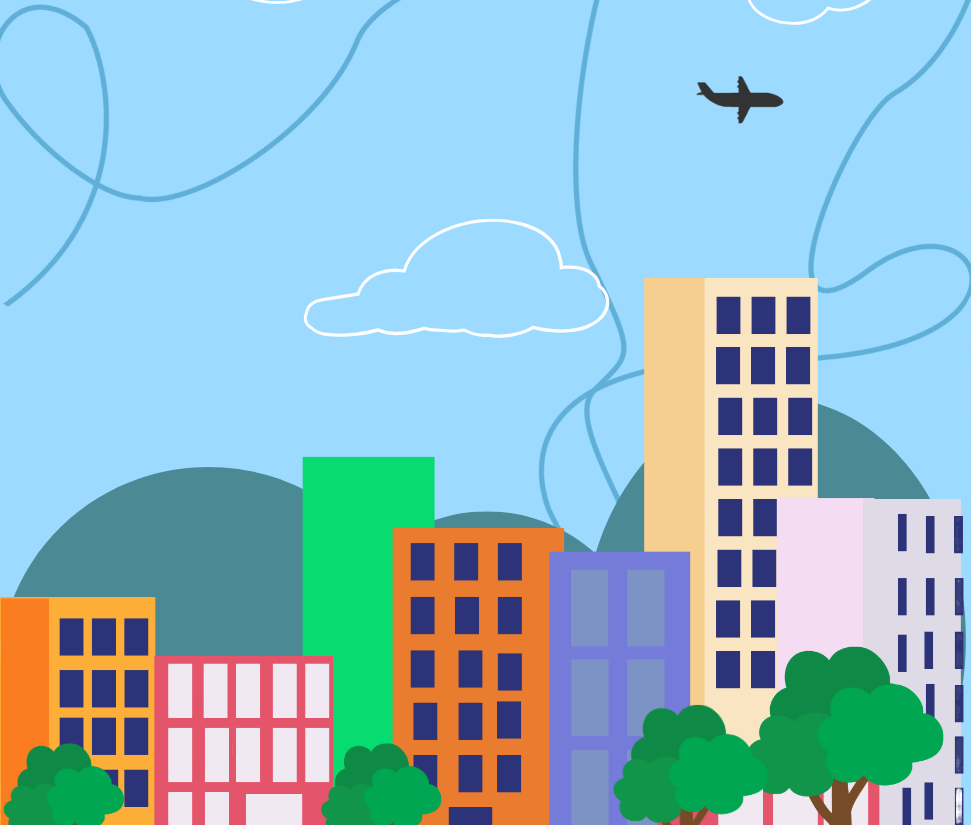
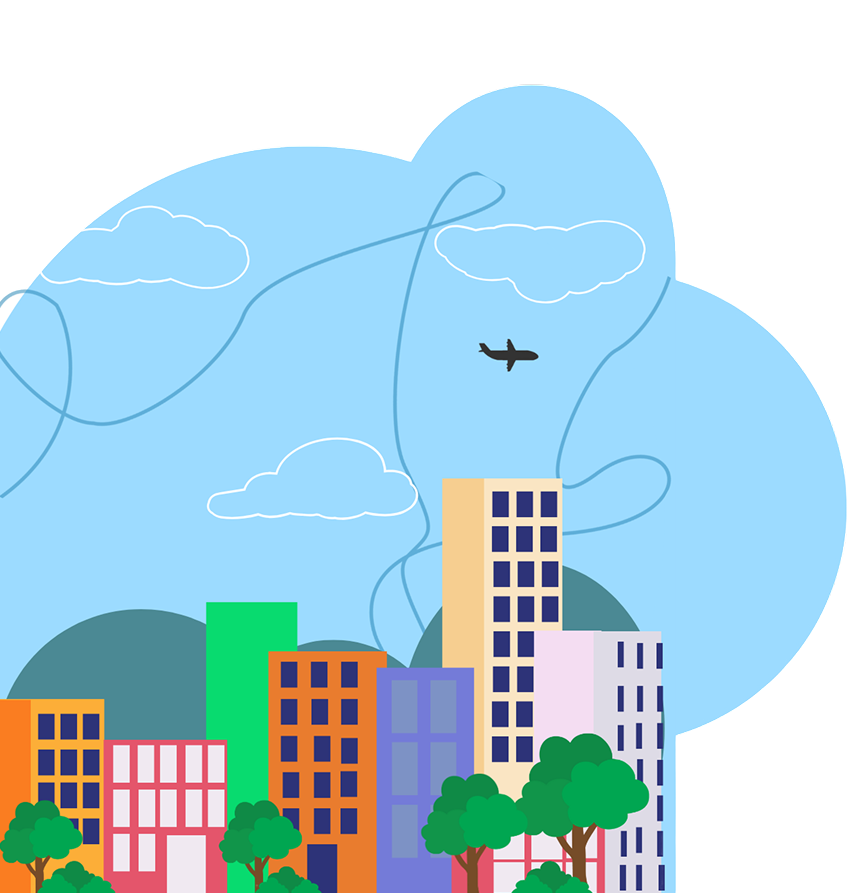
Mudei a imagem

diff --git a/client/src/pages/resetPassword/index.tsx b/client/src/pages/resetPassword/index.tsx
@@ -6,6 +6,7 @@ import { useState } from "react";
 import { AlertCircle } from 'lucide-react';
 import { Alert, AlertDescription } from '@/components/ui/alert';
 import { Link } from 'react-router-dom';
+import { Bell, LogOut, User } from 'lucide-react';
 
 export default function ResetPassword() {
     interface ResetPasswordData {
@@ -25,7 +26,10 @@ export default function ResetPassword() {
     };
 
     return (
+        
+        
         <div className="flex flex-col min-h-screen max-h-screen bg-white md:flex-row">
+            
             {/* Container do alerta de erro */}
             <div className="fixed top-4 left-1/2 -translate-x-1/2 z-50 w-full max-w-md px-4">
                 {error && (
@@ -39,9 +43,9 @@ export default function ResetPassword() {
                 )}
             </div>
 
-            <div className="relative w-full h-40 md:h-auto md:w-1/2 bg-[#689689] rounded-b-[50%] md:rounded-none">
+            <div className="relative w-full h-40 md:h-auto md:w-1/2  rounded-b-[50%] md:rounded-none">
                 <img
-                    src="./images/predios.png"
+                    src="./images/predios2.png"
                     alt="Redefinir Senha"
                     className="w-full h-full object-cover object-[center_90%] md:object-center rounded-b-[50%] md:rounded-none"
                 />

diff --git a/client/src/pages/contact/index.tsx b/client/src/pages/contact/index.tsx
@@ -1,6 +1,6 @@
 import { Link } from "react-router-dom";
-import { FaInstagram, FaFacebookF, FaWhatsapp } from 'react-icons/fa'; // Exemplo de ícones com react-icons
-import { Bell, LogOut, User } from 'lucide-react'; // Adicionando os ícones necessários para o header
+import { FaInstagram, FaFacebookF, FaWhatsapp } from 'react-icons/fa'; 
+import { Bell, LogOut, User } from 'lucide-react'; 
 
 const Contact = () => {
     return (
@@ -39,9 +39,9 @@ const Contact = () => {
             </header>
 
             <div className="flex flex-col md:flex-row">
-                <div className="relative w-full h-40 md:h-auto md:w-1/2 bg-[#689689] rounded-b-[50%] md:rounded-none">
+                <div className="relative w-full h-40 md:h-auto md:w-1/2  rounded-b-[50%] md:rounded-none">
                     <img
-                        src="./images/predios2.png"
+                        src="./images/predios2.png"/*imagem */
                         alt="Voz Cidadão"
                         className="w-full h-full object-cover object-[center_90%] md:object-center rounded-b-[50%] md:rounded-none"
                     />

diff --git a/client/src/pages/about/index.tsx b/client/src/pages/about/index.tsx
@@ -38,7 +38,7 @@ const About = () => {
             </header>
 
             <div className="flex flex-col md:flex-row">
-                <div className="relative w-full h-40 md:h-auto md:w-1/2 bg-[#689689] rounded-b-[50%] md:rounded-none">
+                <div className="relative w-full h-40 md:h-auto md:w-1/2 rounded-b-[50%] md:rounded-none">
                     <img
                         src="./images/predios2.png"
                         alt="Voz Cidadão"
@@ -50,7 +50,7 @@ const About = () => {
                 <img
                     src="./images/Nuvem.png"
                     alt="Imagem Nuvem"
-                    className="fixed bottom-0 right-0 w-32 h-32 object-contain m-4"
+                    className="absolutefixed bottom-0 right-0 w-32 h-32 object-contain m-4"
                 />*/}
 
                 <div className="flex items-center justify-center w-full pt-8 md:w-1/2">
